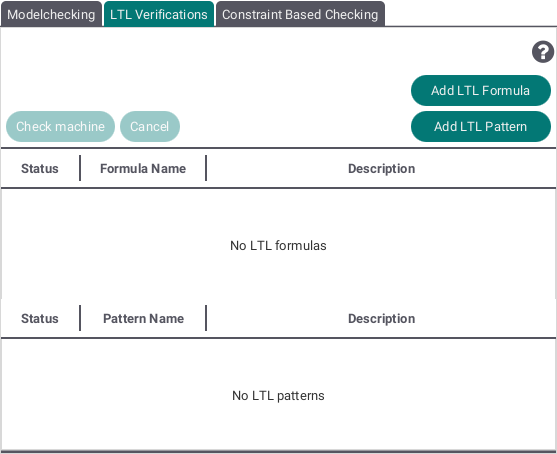
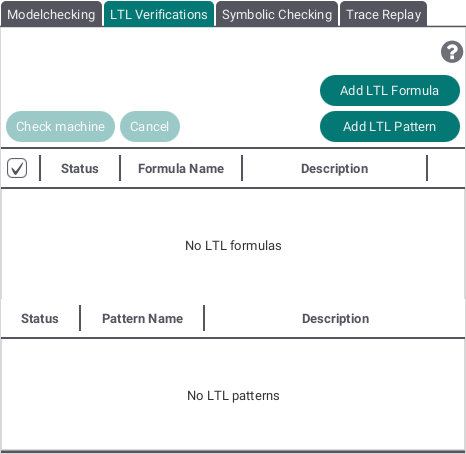
updating verifications view help

diff --git a/src/main/resources/help/Verification.md b/src/main/resources/help/Verification.md
@@ -1,19 +1,37 @@
 The Verification View provides 3 different methods to test a machine:
 
-* Modelchecking
-* LTL Verifications and
-* Constraint Based Checking
+* Modelchecking,
+* LTL Verifications,
+* Symbolic Checking and
+* Trace Replay
 
 In each tab you can add multiple tests to check you currently selected machine and interrupt the checking process by pressing the "Cancel" button.
-##Modelchecking
+## Modelchecking
+
 ![Modelchecking](screenshots/Verifications/Modelchecking.png)
+
 By pressing the plus button you can add several model checking variants. The following view will be shown:
+
 ![Modelchecking Stage](screenshots/Verifications/Modelchecking Stage.png)
+
 Select one of the search strategies (breadth first, depth first or a mix of both) and the checkboxes containing  different possible errors like deadlocks to be checked for. By pushing the "Model Check" button your selected variant will be added to the list shown at the top of the Modelchecking Tab.
 
-##LTL Verifications
+## LTL Verifications
+
 ![LTL](screenshots/Verifications/LTL.png)
-By pressing the "Add LTL Formula" or "Add LTL Pattern" buttons an editor for each respectively will be opened and you can add LTL formulas or patterns to the lists to be checked for. 
-##Constraint Based Checking
-![CBC](screenshots/Verifications/CBC.png)
-![Add CBC](screenshots/Verifications/Add CBC.png)
+
+By pressing the "Add LTL Formula" or "Add LTL Pattern" buttons an editor for each respectively will be opened and you can add LTL formulas or patterns to the lists to be checked for.
+
+## Symbolic Checking
+
+![Symbolic Checking](screenshots/Verifications/Symbolic Checking.png)
+
+By pressing the plus button you can add several symbolic checking variants. The following view will be shown:
+
+![Add SC](screenshots/Verifications/Add SC.png)
+
+The dropdown menu allows you to select the type of check. Some variants of the symbolic checking might need additional parameters (e.g. Invariants needs an operation).
+
+## Trace Replay
+![Trace Replay](screenshots/Verifications/Trace Replay.png)
+The Trace Replay tab allows you to load a trace from your hard drive to be replayed by the machine.
